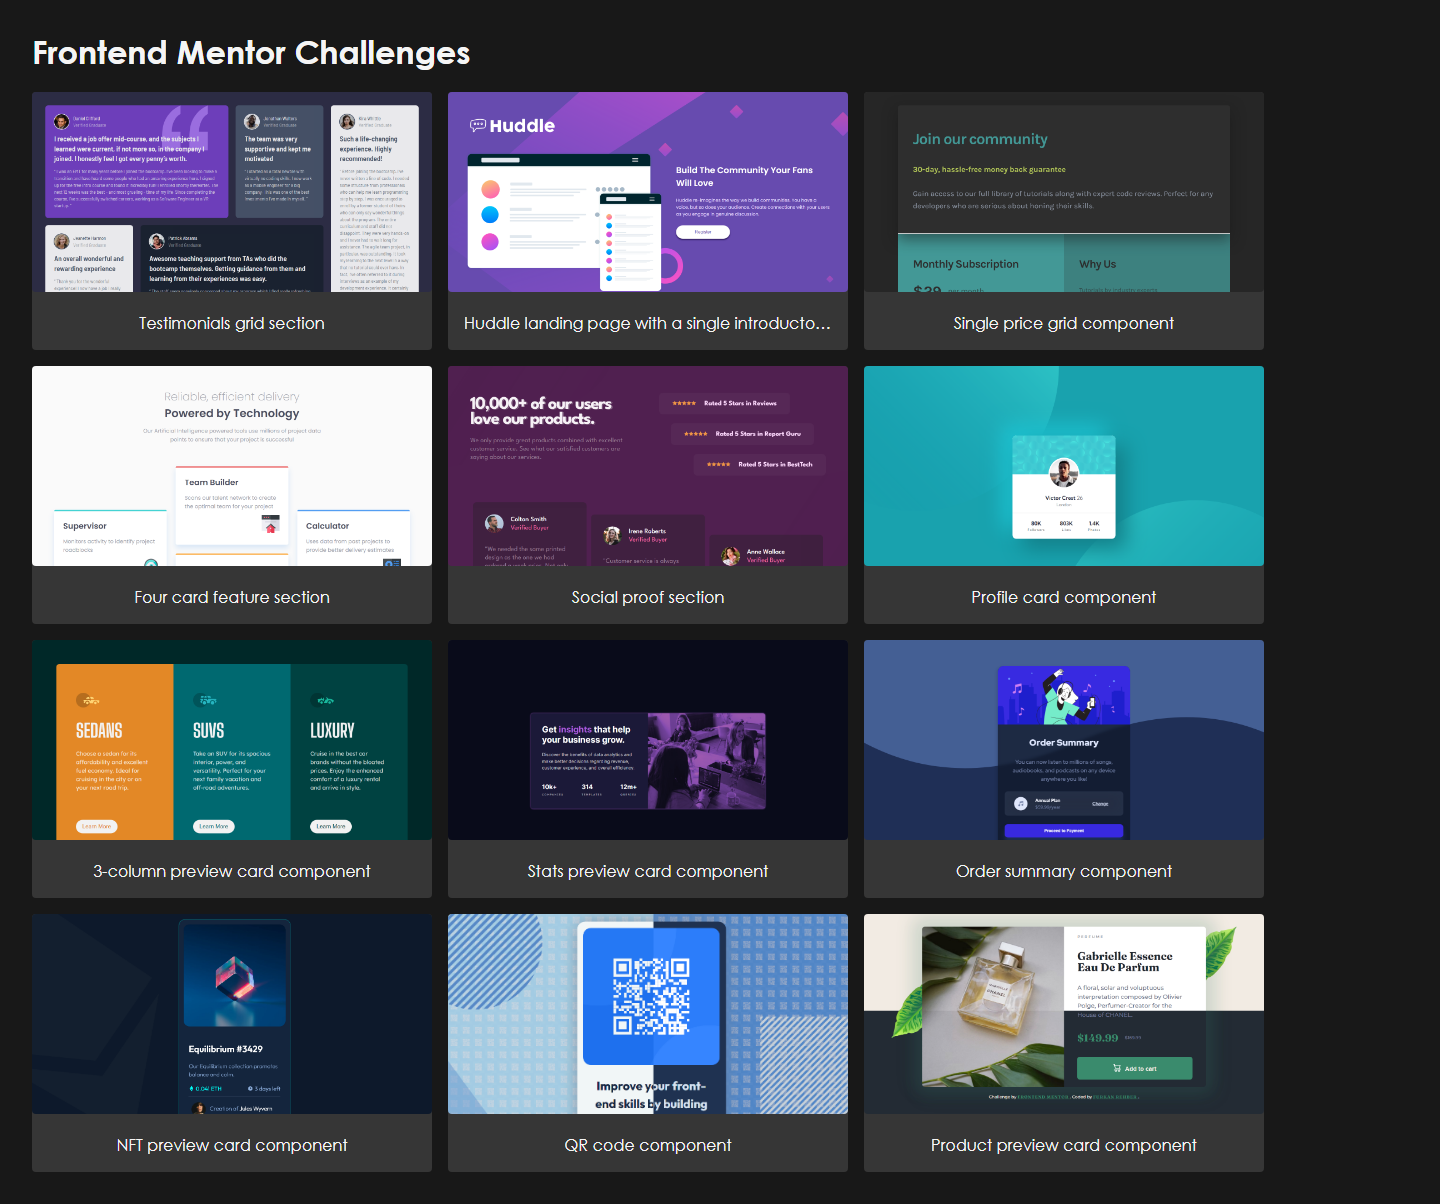
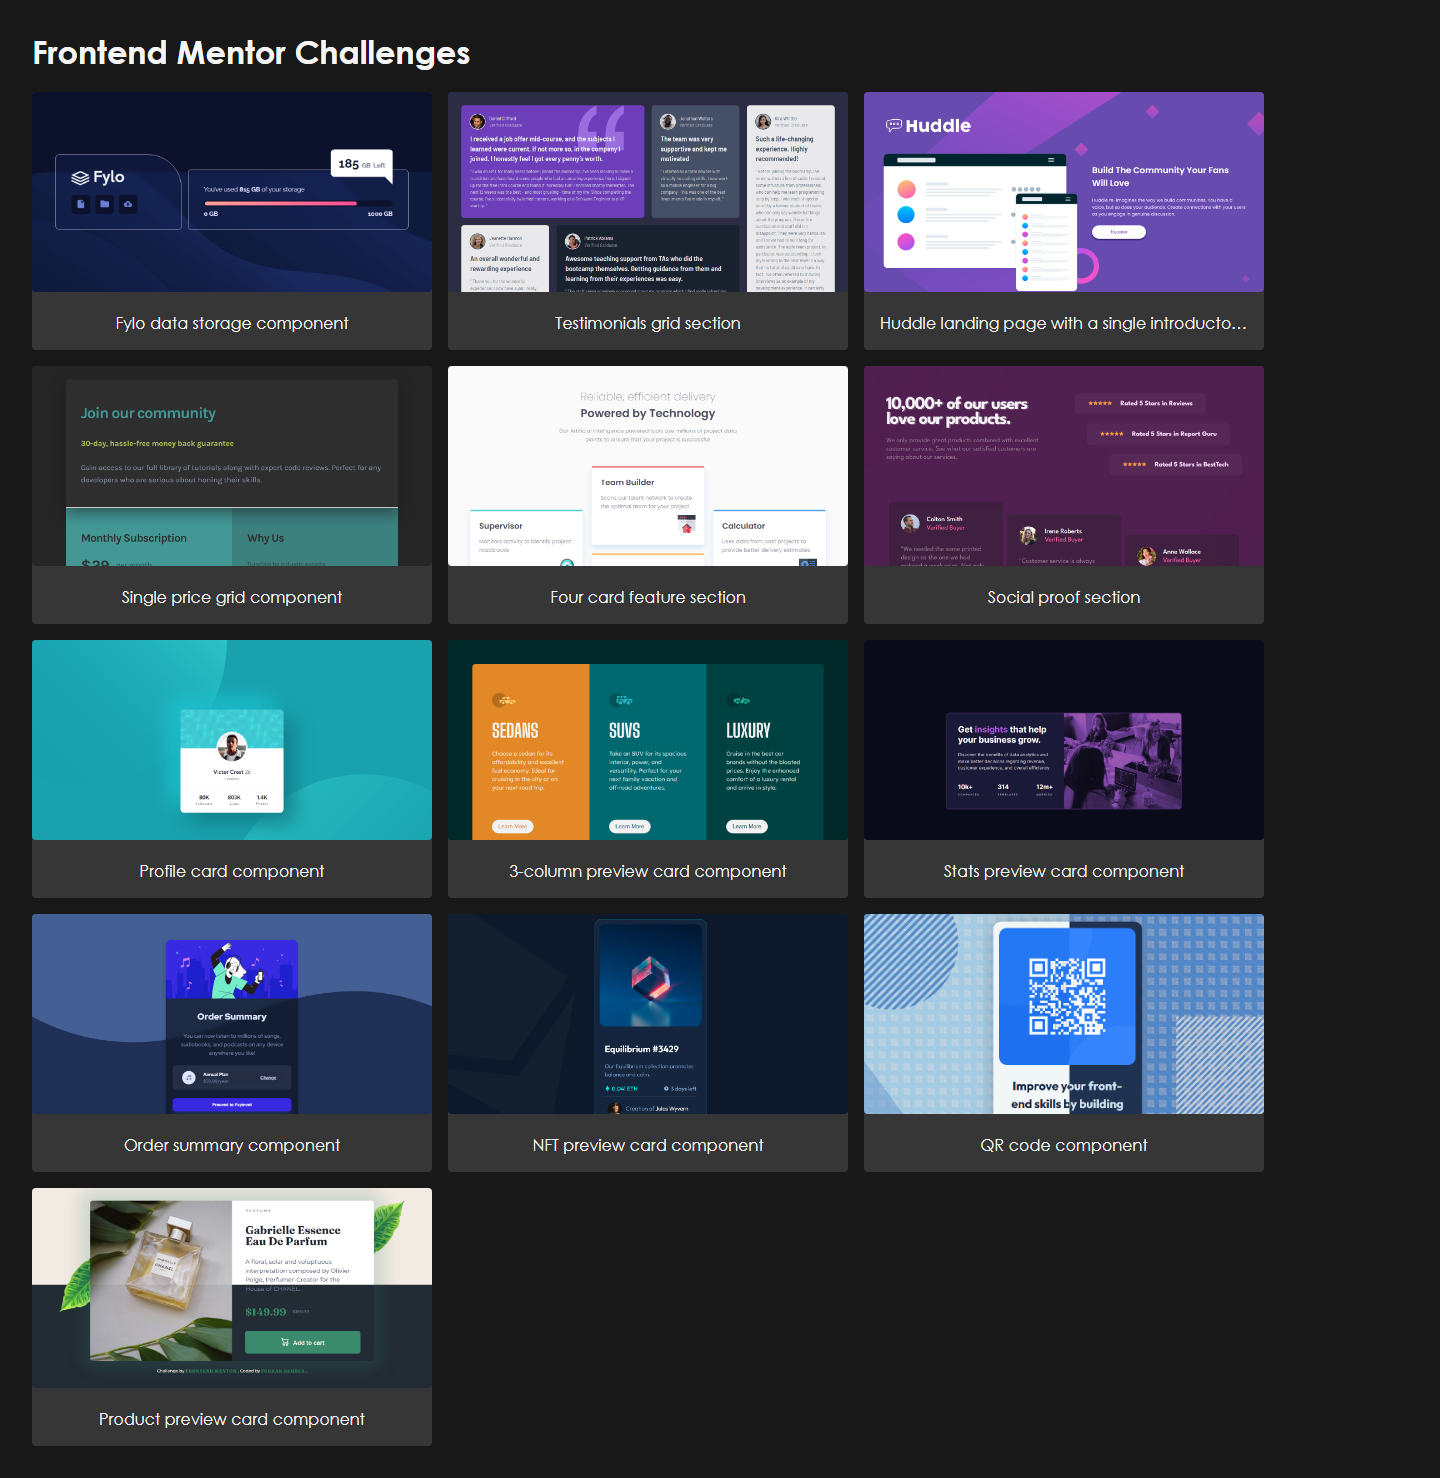
fylo-data-storage-component-master

diff --git a/index.html b/index.html
@@ -91,6 +91,19 @@
             </figure> -->
             <figure>
                 <a
+                    href="https://rehberbey.github.io/Frontend-Mentor-Challenges/fylo-data-storage-component-master/dist/index.html"
+                    target="_blank"
+                    rel="noopener noreferrer"
+                >
+                    <img
+                        src="./fylo-data-storage-component-master/design/desktop.png"
+                        alt="Fylo data storage component"
+                    />
+                    <figcaption>Fylo data storage component</figcaption>
+                </a>
+            </figure>
+            <figure>
+                <a
                     href="https://rehberbey.github.io/Frontend-Mentor-Challenges/testimonials-grid-section-main/dist/index.html"
                     target="_blank"
                     rel="noopener noreferrer"
@@ -251,7 +264,7 @@
 
         <script>
             const figcaption = document.querySelectorAll(
-                "figure > a > figcaption",
+                "figure > a > figcaption"
             );
 
             for (const el of figcaption) {
